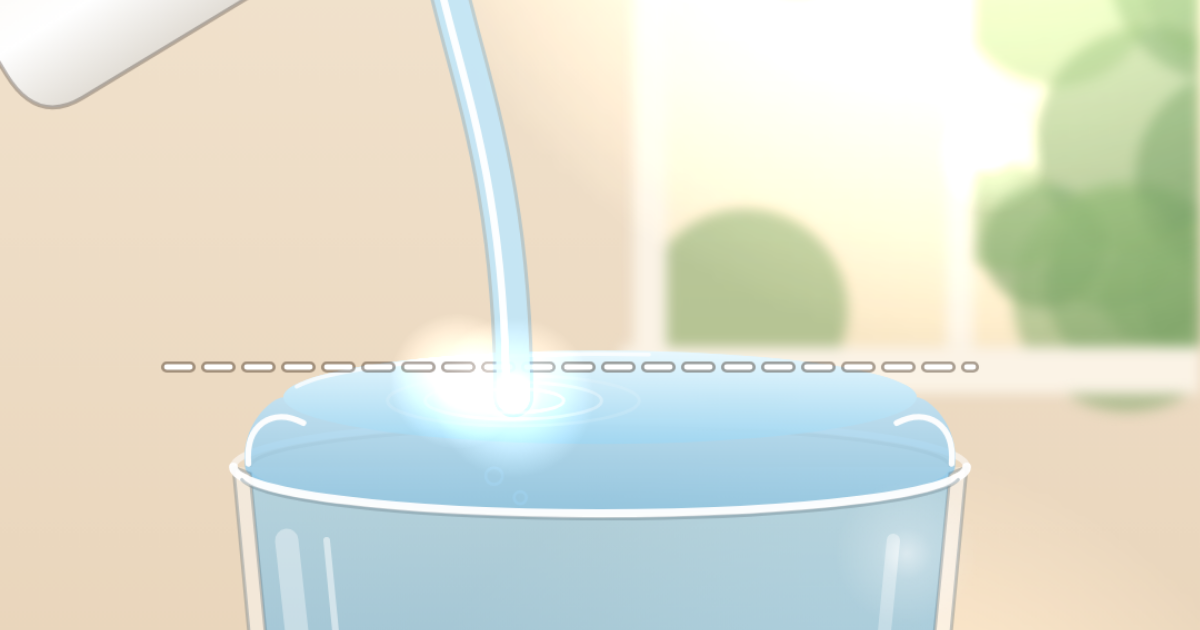
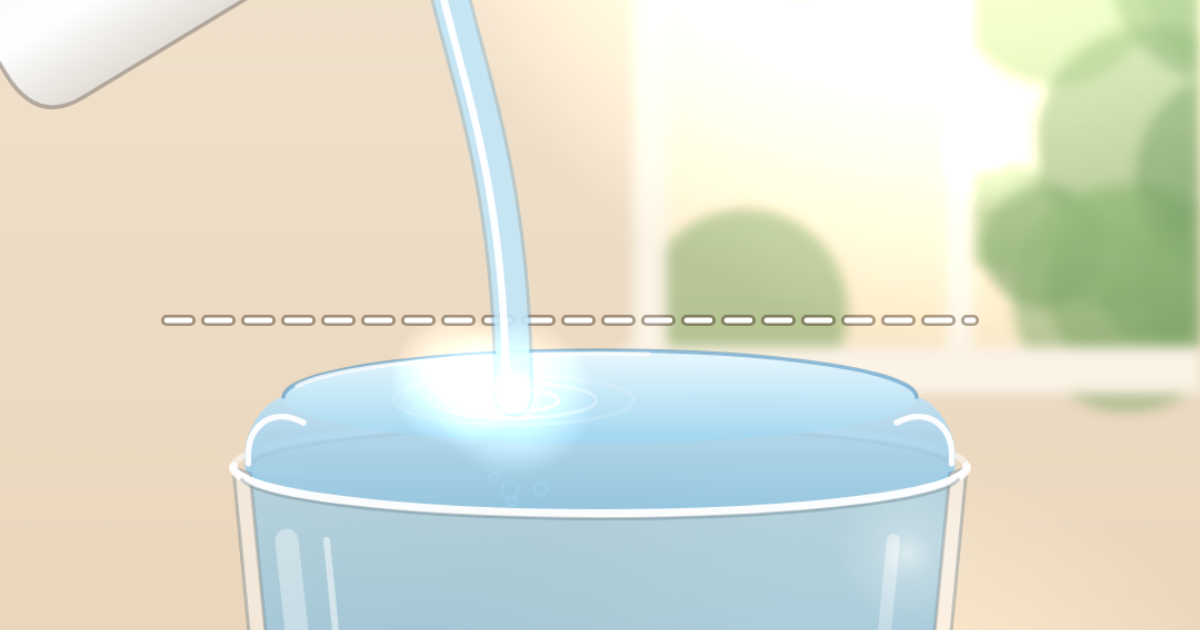
koppu: ギリギリの点線を、こぼれる直前の水の上端に合わせる
Claude-Session: https://claude.ai/code/session_01E5BBq7waBxSg39EVTyVM3T

Changed region(s): [[0.1233, 0.4825, 0.8325, 0.6333]]

diff --git a/koppu/index.html b/koppu/index.html
@@ -156,7 +156,7 @@ addEventListener('resize',resize);try{visualViewport.addEventListener('resize',r
 resize();
 /* Yr: the rim of the glass. Yg: the table under it. The pitcher's spout hangs above-left. */
 const CXG=180,RXR=110,RYR=14,RXB=90,WALL=5;
-function L(){const Yr=Math.round(Math.max(250,Math.min(H-262,H*.46)));const Yg=Yr+212;return {Yr,Yg,SPX:132,SPY:Yr-150,lim:Yr-LIM*MM};}
+function L(){const Yr=Math.round(Math.max(250,Math.min(H-262,H*.46)));const Yg=Yr+212;return {Yr,Yg,SPX:132,SPY:Yr-150,lim:Yr-LIM*MM-RYR};}
 function hw(y){const {Yr,Yg}=L();return RXR-WALL-(RXR-RXB)*(y-Yr)/(Yg-Yr);}
 function rr(x,X,Y,w,h,r){x.beginPath();x.moveTo(X+r,Y);x.arcTo(X+w,Y,X+w,Y+h,r);x.arcTo(X+w,Y+h,X,Y+h,r);x.arcTo(X,Y+h,X,Y,r);x.arcTo(X,Y,X+w,Y,r);x.closePath();}
 function clamp(v,a,b){return Math.max(a,Math.min(b,v));}
@@ -340,6 +340,7 @@ function drawWater(x,now){
     /* top of the dome, seen from slightly above */
     g=x.createLinearGradient(0,yl-RYR,0,yl+RYR);g.addColorStop(0,'rgba(235,250,255,.9)');g.addColorStop(1,'rgba(160,215,242,.85)');
     x.fillStyle=g;x.beginPath();x.ellipse(CXG,yl,rt,RYR,0,0,Math.PI*2);x.fill();
+    x.strokeStyle='rgba(70,140,190,.55)';x.lineWidth=1.2;x.beginPath();x.ellipse(CXG,yl,rt,RYR,0,Math.PI,Math.PI*2);x.stroke();
     /* the bright rolled edge that says "this is about to go" */
     x.strokeStyle='rgba(255,255,255,.95)';x.lineWidth=1.8;x.beginPath();x.moveTo(CXG-rw+1,Yr-1);x.bezierCurveTo(CXG-rw,Yr-hp*.6,CXG-rt-sh*.3,yl+RYR*.2,CXG-rt+6,yl+RYR*.55);x.stroke();
     x.beginPath();x.moveTo(CXG+rw-1,Yr-1);x.bezierCurveTo(CXG+rw,Yr-hp*.6,CXG+rt+sh*.3,yl+RYR*.2,CXG+rt-6,yl+RYR*.55);x.stroke();
